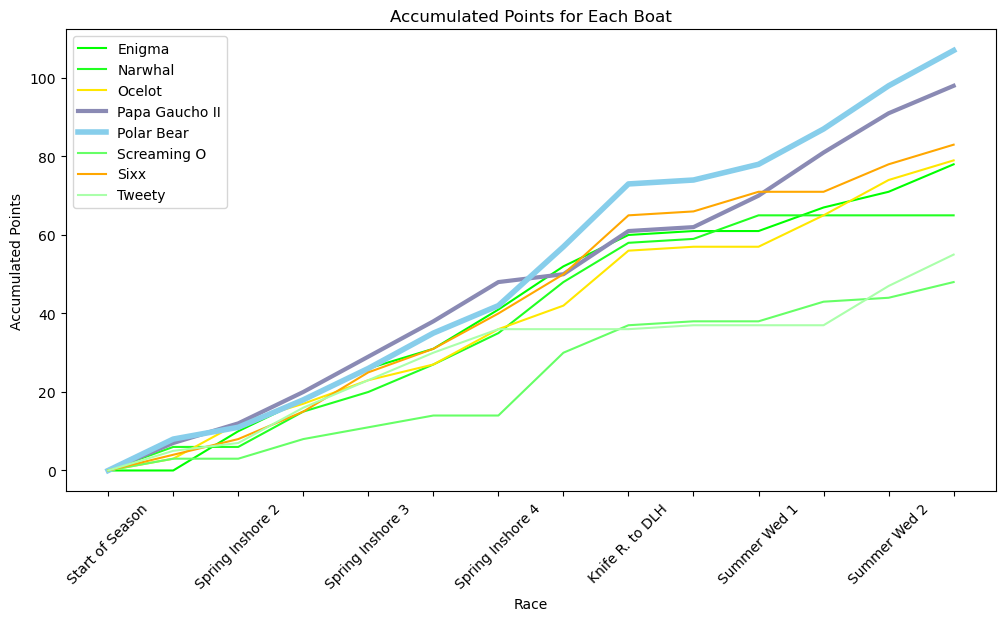
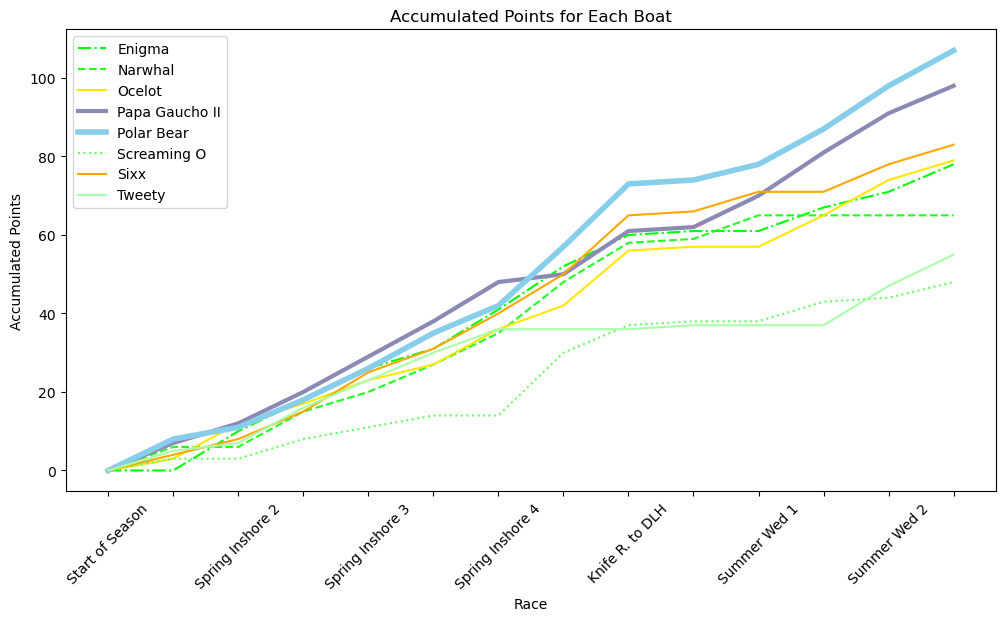
BOTY post edits

diff --git a/_posts/2023-07-18-boat-of-the-year.md b/_posts/2023-07-18-boat-of-the-year.md
@@ -37,6 +37,10 @@ Each year the DYC organizes a series of more than 30 races between mid-May and m
 
 Boats and their crews score points in each race according to their finishing order, and awards are given for the top three boats in each series. But across the entire season points are also given in the **Boat of the Year** competition. Most crews do not actively pursue the Boat of the Year title for reasons that will soon become clear, but this year the boat I crew on, **Polar Bear**, is most definitely in the hunt.
 
+<figure>
+  <img src="../assets/images/BotY/PolarBear_2.jpg" alt="Sailboat" class="eighty_pct">
+  <figcaption>Fig. 1 - Polar Bear at full-cry</figcaption>
+</figure>
 
 ## Let's Build a Chart
 
@@ -67,13 +71,18 @@ My biggest issue with this line chart is the use of color. These colors are brig
 
 These colors are not helping to tell the story of the competition at this point in the season. If we assume that my audience for this chart is my skipper and the rest of the crew, then the fate of Polar Bear and its near-competitors matters more than the fate of most of the other boats. 
 
-Contrast will be important here, but so will connotation. Most of Polar Bear's spinnakers and decrorative accents are blue, and her deck is painted light blue. So her line on the chart should be blue. Our nearest competitor sprouts a purple spinnaker for her downwind runs, so Papa Gaucho II's line should be purple. The other boats matter less. I'm going to make the next two closest competitors stand out a little as we are "keeping and eye" on them, but the other four boats matter much less. So let's keep their data there, but lets make it receed into the background:
+<figure>
+  <img src="../assets/images/BotY/Gaucho_kite.JPG" alt="Sailboat" width=350>
+  <figcaption>Fig. 2 - Papa Gaucho II in downwind mode.</figcaption>
+</figure>
+
+Contrast will be important here, but so will connotation. Most of Polar Bear's spinnakers and decrorative accents are blue (fig 1), and her deck is painted light blue. So her line on the chart should be blue. Our nearest competitor sprouts a purple spinnaker (fig 2) for her downwind runs, so Papa Gaucho II's line should be purple. The other boats matter less. I'm going to make the next two closest competitors stand out a little as we are "keeping and eye" on them, but the other four boats matter much less. So let's keep their data there, but lets make it receed into the background:
 
 <img src="../assets/images/BotY/Chart_3.png" class="eighty_pct" width="720"/><br> <br> <br>
 
 The most important part of the story of the season is becoming much more clear. Polar Bear is leading the competition, with Papa Gaucho II close behind. Sixx and Ocelot are up there, and the other boats are almost background noise.
 
-Adjusting the line weights for Polar Bear and Papa Gaucho II further increases the emphasis on the two most important boats in this story:
+Adjusting the line weights for Polar Bear and Papa Gaucho II further increases the emphasis on the two most important boats in this story, and varying the line style for the green lines makes it easier to track those individual boats:
 
 <img src="../assets/images/BotY/Chart_4.png" class="eighty_pct" width="720"/><br> <br> <br>
 
@@ -99,7 +108,7 @@ One final tweak; the 45 degree angle of the text lables lead my eye to think tha
 This final chart is not only prettier than the Plotly boilerplate, but it communicates the story of the season much more effectively. In a presenation I could use this chart to illustrate the following observations:
 -   We have clearly pulled ahead in this competition, but Gaucho is not far behind. We need to keep racing, and racing well. This is **not** the time to take our foot of the gas.
 -   That pair of offshore races to and from Knife River (where we took 2nd & 1st) really catapaulted us to the top of the heap. This is why they say, if you want to win Boat of the Year, **you need to race the entire calendar!**
--   Tweety serves as the counter-example. They were in the hunt from the start, but then their line went flat for a few weeks when they were out of town for the Super Mac & Back solo race. You need to race the entire calendar to win Boat of the Year.
+-   Tweety and Narwhal serve as the counter-example. Both boats were in the hunt from the start, but then their lines went flat for a few weeks when they skipped multiple races. It would be extremely difficult for those boats to catch back up at this point. You need to race the entire calendar to win Boat of the Year.
 
 The season is far from over, and with the weather getting ever-warmer, the fleets will get bigger for each race, which means that more Boat of the Year points will be scored in the second half of the season relative to the first half of the season.
 
